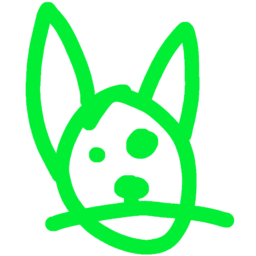
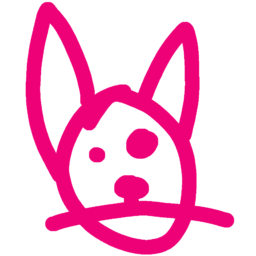
color scheme change

Changed region(s): [[0.0938, 0.0, 0.9375, 1.0], [0.3438, 0.5625, 0.4375, 0.6562]]

diff --git a/style.css b/style.css
@@ -4,7 +4,7 @@ body {
 	margin: 0px;
     padding: 0px;
     font-size: 18px;
-    color: #0e3;
+    color: #e07;
     font-family: Arial, Helvetica, sans-serif;
 }
 
@@ -43,7 +43,7 @@ a {
 }
 
 #main {
-    border: 2px solid #0c3;
+    border: 2px solid #e07;
     width: 476px; 
     height: 288px;
     background-image: url('line5.gif');
